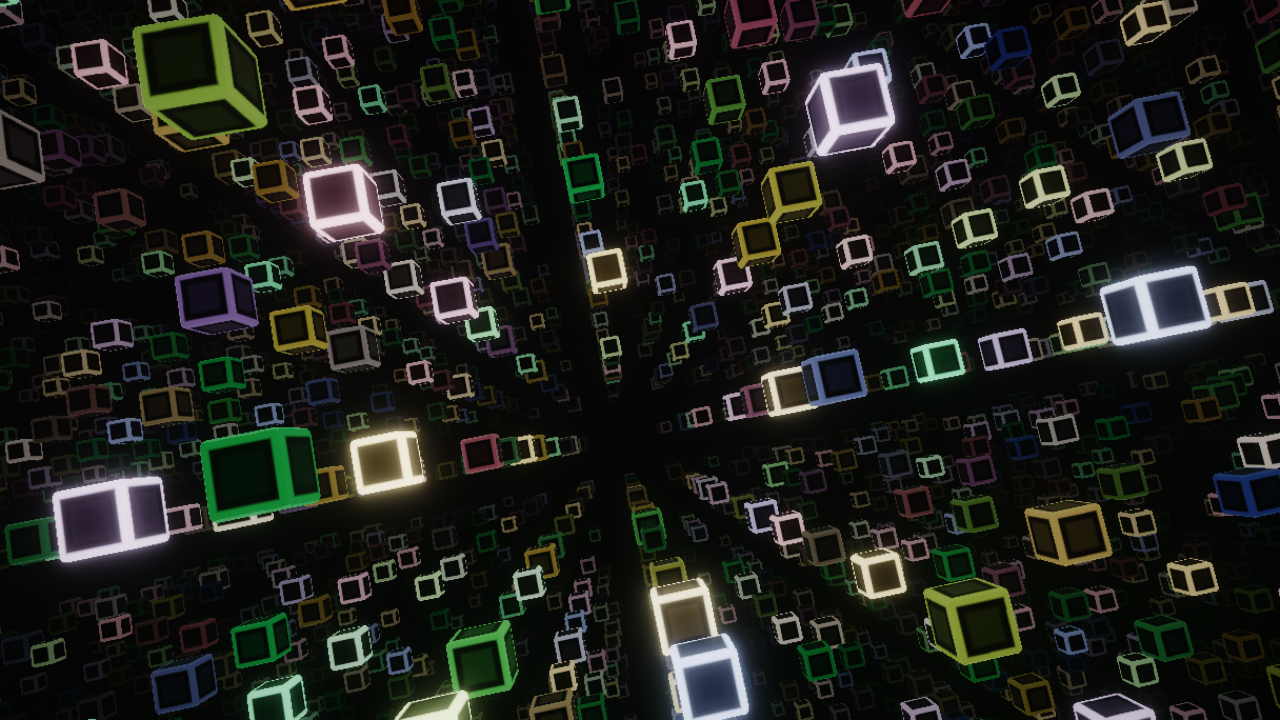
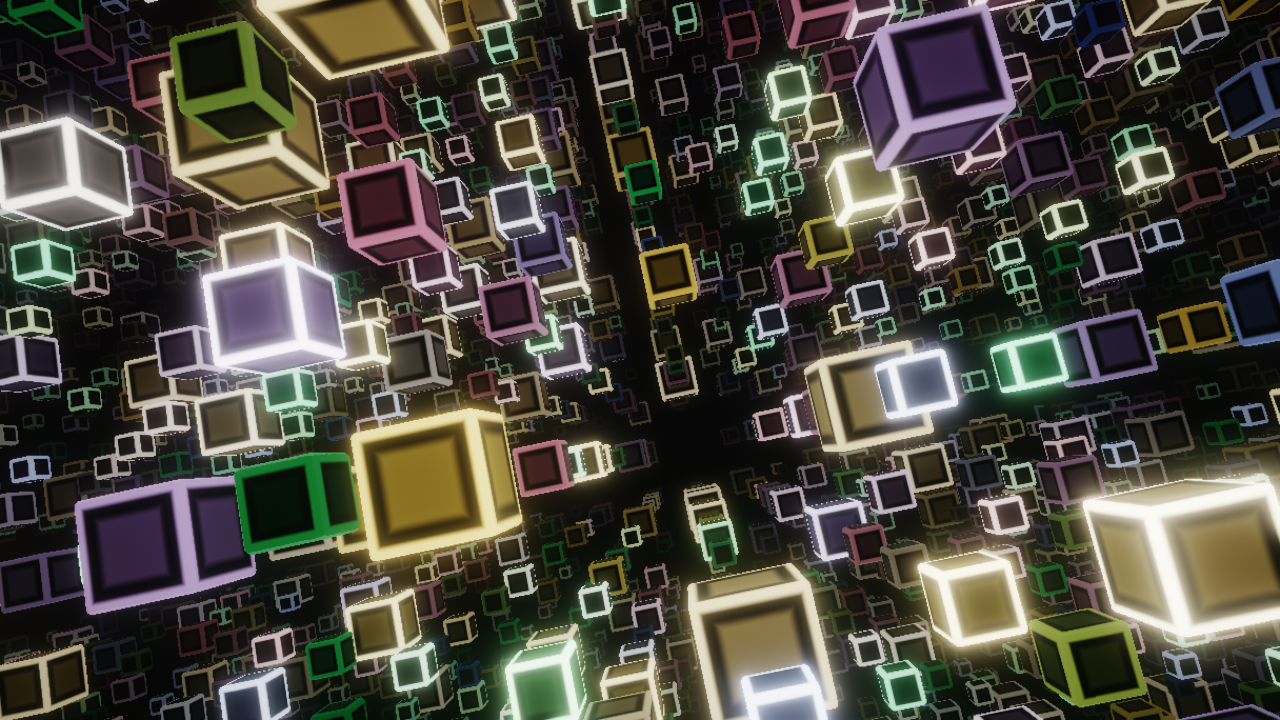
Add README with setup steps, refresh visualizer screenshots
README covers quick start, shortcuts, what bass/mids/treble/beats drive
in each visualizer, how to add one, per-OS system audio capture advice,
setup steps for Spotify, Apple Music and YouTube with their limits, how
everything was tested, and what could not be verified here.

Claude-Session: https://claude.ai/code/session_01QbNHKRFDGpGbRETGv1cwDG

diff --git a/README.md b/README.md
@@ -1,0 +1,256 @@
+# Phosphor
+
+A music player for the browser whose main attraction is its visualizers. Put music on, press <kbd>F</kbd>, and the interface fades away to leave twelve audio-reactive visualizers filling the screen.
+
+![Album Halo, with colours taken from the cover art](docs/screenshots/radial.png)
+
+- **Sources:** local files (MP3, FLAC, WAV, M4A/AAC, OGG/Opus and anything else Chrome or Edge decodes), whatever your computer is playing (system or tab audio capture), Spotify, Apple Music, and YouTube / YouTube Music.
+- **Visualizers:** six classic (spectrum bars, oscilloscope, feedback trails, tunnel, kaleidoscope, real MilkDrop presets) and six modern (GPU particles, two raymarched scenes, a 3D frequency terrain, a fluid simulation, and a radial spectrum around the album art). Bass, mids, treble and beats each drive something different in every one of them.
+- **Player:** queue, shuffle, repeat, seek, volume, keyboard shortcuts, media keys, drag and drop, folders, tags and cover art, a visualizer gallery, auto-cycling with crossfades.
+- **Stack:** Vite + TypeScript, raw WebGL2, Web Audio. No backend and no framework. Runs in Chrome or Edge.
+
+## Quick start
+
+```bash
+npm install
+```
+
+```bash
+npm run dev
+```
+
+Then open **http://127.0.0.1:5173** (use `127.0.0.1`, not `localhost`: Spotify only accepts that form of local address for sign-in, and `localhost` redirects there anyway). Drop some audio files on the window, or click **Play demo** for a built-in synthesised track.
+
+To build static files for hosting anywhere: `npm run build`, then serve `dist/`. If you host it somewhere other than `http://127.0.0.1:5173`, it must be served over **https** for Spotify sign-in, and the redirect URI in your Spotify app has to match the new address.
+
+Local files, system audio capture and YouTube links work without any setup. Spotify and Apple Music need credentials from you; see [Streaming services](#streaming-services).
+
+## Using it
+
+<table>
+<tr><td><img src="docs/screenshots/ui-playing.png" alt="Playing a local file"></td><td><img src="docs/screenshots/ui-gallery.png" alt="Visualizer gallery"></td></tr>
+<tr><td><img src="docs/screenshots/ui-queue.png" alt="Queue"></td><td><img src="docs/screenshots/ui-capture.png" alt="System audio capture, with advice for this OS"></td></tr>
+</table>
+
+| Key | Action |
+| --- | --- |
+| <kbd>Space</kbd> | Play / pause |
+| <kbd>←</kbd> <kbd>→</kbd> | Previous / next visualizer |
+| <kbd>Shift</kbd>+<kbd>←</kbd> <kbd>→</kbd> | Previous / next MilkDrop preset |
+| <kbd>1</kbd>…<kbd>0</kbd> | Jump to a visualizer |
+| <kbd>A</kbd> | Auto-cycle visualizers on / off |
+| <kbd>G</kbd> | Visualizer gallery |
+| <kbd>↑</kbd> <kbd>↓</kbd> | Volume |
+| <kbd>M</kbd> | Mute |
+| <kbd>N</kbd> / <kbd>P</kbd> | Next / previous track (previous restarts the track if you are more than 3 s in) |
+| <kbd>J</kbd> / <kbd>L</kbd> | Seek back / forward 10 seconds |
+| <kbd>S</kbd> / <kbd>R</kbd> | Shuffle / repeat (off, all, one) |
+| <kbd>Q</kbd> | Queue (click to play, drag to reorder) |
+| <kbd>O</kbd> | Add music |
+| <kbd>C</kbd> | Capture system or tab audio |
+| <kbd>F</kbd> | Fullscreen (or double-click the visuals) |
+| <kbd>,</kbd> / <kbd>?</kbd> | Settings / list of shortcuts |
+| <kbd>Esc</kbd> | Close whatever is open |
+
+Media keys, headset buttons and the OS "now playing" widget control playback too.
+
+In fullscreen the controls fade out a few seconds after the mouse stops (Settings can make that happen always, or never). They stay while the pointer is over them. Auto-cycle picks a new visualizer every 15 seconds to 5 minutes, shuffled or in order, crossfading between them; it pauses while nothing is playing. Quality defaults to **Auto**, which lowers the internal render resolution when frames start dropping and raises it again when there is headroom, so the frame rate holds on slower GPUs.
+
+Settings, the last visualizer, volume, shuffle and repeat are remembered in the browser.
+
+## Visualizers
+
+| | Visualizer | Bass | Mids | Treble | Beats |
+| --- | --- | --- | --- | --- | --- |
+| 1 | **Spectrum** – LED bars with gravity-driven peak caps and a floor reflection | left-hand bars, floor glow | middle bars | right-hand bars | bars and floor flare |
+| 2 | **Oscilloscope** – left and right waveforms as a beam on a phosphor tube | beam thickens | waveform shape | beam brightens on hits | beam and graticule flash |
+| 3 | **Feedback Trails** – waveform rings leave swirling, colour-cycling trails | outward zoom | swirl strength and spin | hue rotation speed, comets | zoom kick; every 8 beats the swirl reverses |
+| 4 | **Tunnel** – tiled demoscene tunnel; past sound flies toward you as lit tiles | glow at the far end | bend and roll | neon tubes fizz | walls lurch, steel ribs flash |
+| 5 | **Kaleidoscope** – mirrored stained glass, each shard tied to one frequency | zoom | spin and tumble | bevel glints, sparkles | flash; every 16 beats the mirror count changes |
+| 6 | **MilkDrop** – genuine MilkDrop presets via butterchurn, a curated set of 24 | per preset | per preset | per preset | preset changes on a beat every ~30 s |
+| 7 | **Particle Field** – ~190,000 GPU particles forming shapes | shape swells | flow-field turbulence, orbit speed | glitter flashes | explosion outward; every 16 beats a new shape |
+| 8 | **Pulse Orb** – raymarched liquid-metal sphere | swell and wobble | regions of skin bulge with their band | skin roughens, sparks | shockwave ring |
+| 9 | **Lattice Flight** – raymarched flight through a grid of cubes, one band each | flight speed | roll | edges spark | light wave races down the corridor |
+| 0 | **Frequency Terrain** – a landscape built from the last few seconds of spectrum | height, sun size, horizon glow | ridges | aurora, wire shimmer, stars | sun pulse, grid flash |
+| | **Fluid** – Navier–Stokes ink simulation | fountain from the bottom | jets from the sides | circling nozzles, finer swirls | ink bursts |
+| | **Album Halo** – cover art ringed by a radial spectrum and waveform halo | disc swells, rim light | spectrum bars | sparks | ripples leave the disc |
+
+The modern family (and Album Halo's disc) take their colours from the current track's artwork; the interface accent colour follows it too. With no artwork, Album Halo shows a spinning record instead.
+
+<table>
+<tr><td><img src="docs/screenshots/bars.png" alt="Spectrum"></td><td><img src="docs/screenshots/scope.png" alt="Oscilloscope"></td><td><img src="docs/screenshots/trails.png" alt="Feedback Trails"></td></tr>
+<tr><td><img src="docs/screenshots/tunnel.png" alt="Tunnel"></td><td><img src="docs/screenshots/kaleido.png" alt="Kaleidoscope"></td><td><img src="docs/screenshots/milkdrop.png" alt="MilkDrop"></td></tr>
+<tr><td><img src="docs/screenshots/particles.png" alt="Particle Field"></td><td><img src="docs/screenshots/orb.png" alt="Pulse Orb"></td><td><img src="docs/screenshots/lattice.png" alt="Lattice Flight"></td></tr>
+<tr><td><img src="docs/screenshots/terrain.png" alt="Frequency Terrain"></td><td><img src="docs/screenshots/fluid.png" alt="Fluid"></td><td><img src="docs/screenshots/radial.png" alt="Album Halo"></td></tr>
+</table>
+
+### Adding a visualizer
+
+Add one file to `src/viz/visualizers/`. It is registered automatically and appears in the gallery, the arrow-key rotation and auto-cycle.
+
+```ts
+import { COMMON_UNIFORMS, FS_HEADER } from '../../gl/glsl';
+import { drawFullscreen, FULLSCREEN_VS, Program } from '../../gl/util';
+import { bindOutput, commonUniforms, defineVisualizer } from '../types';
+
+const FS = /* glsl */ `${FS_HEADER}
+in vec2 vUv; out vec4 o;
+${COMMON_UNIFORMS}
+void main() {
+  float s = texture(uSpectrum, vec2(vUv.x, 0.5)).r;              // log-spaced spectrum, 0..1
+  float bar = step(vUv.y, s);
+  o = vec4(mix(uPal[0], uPal[1], vUv.y) * bar * (0.6 + uBeat) + uBass * 0.1, 1.0);
+}`;
+
+export default defineVisualizer({
+  id: 'hello',
+  name: 'Hello Bars',
+  family: 'classic',
+  order: 200,
+  description: 'The smallest possible example.',
+  create({ gl }) {
+    const program = new Program(gl, FULLSCREEN_VS, FS);
+    return {
+      resize() {},
+      render(frame) {
+        bindOutput(gl, frame);
+        program.use().set(commonUniforms(frame));
+        drawFullscreen(gl);
+      },
+      dispose() {
+        program.dispose();
+      },
+    };
+  },
+});
+```
+
+Every visualizer receives the same analysis each frame (`frame.audio` in TypeScript, uniforms and textures in GLSL):
+
+- `spectrum`: 128 log-spaced bands from 32 Hz to 16 kHz, 0..1, auto-gained with a treble tilt so quiet captures and loud masters both fill the range; also uploaded as the `uSpectrum` texture, plus a 256-row scrolling history texture (`uHistory`).
+- `waveform`, `waveL`, `waveR`: 1024 trigger-aligned samples, gain-normalised (`uWave`).
+- `bass`, `mid`, `treble`, `level`: smoothed band energies; `bassHit`, `midHit`, `trebleHit`: transient emphasis.
+- `beat` (true on the beat frame), `beatPulse` (1 decaying to 0), `beatCount`: adaptive spectral-flux beat detection gated on low-frequency energy.
+- `palette`: four colours from the current artwork (`uPal`), and the artwork itself (`uArtwork`).
+
+`src/gl` has the small WebGL2 toolkit the built-in ones use (programs with named uniforms, render targets, ping-pong buffers, bloom).
+
+## System audio
+
+This is the universal source: anything playing on your computer, or in another tab, can drive the visualizers. Open **Add music → System audio** (or press <kbd>C</kbd>) and the browser's share dialog appears. The captured sound is only analysed and never played back, so you won't hear it twice. Only the audio track is kept; the picture is discarded at once.
+
+What the share dialog can capture depends on your OS (the app shows the right advice for yours):
+
+| | One browser tab | Everything the computer plays |
+| --- | --- | --- |
+| **Windows** | Choose the tab, switch on *Also share tab audio* | Choose *Entire screen*, switch on *Also share system audio* |
+| **macOS** | Choose the tab, switch on *Also share tab audio* | *Entire screen* + *Also share system audio*, on macOS 14.2 or later with a recent Chrome or Edge (about version 141 on). On older versions use a loopback driver such as BlackHole with **Audio input device**. |
+| **Linux** | Choose the tab, switch on *Also share tab audio* | Not offered by Chrome. Use **Audio input device** and pick your sound server's "Monitor of …" source. |
+| **ChromeOS** | As Windows | As Windows |
+
+Sharing a single *window* never includes sound. **Audio input device** listens to any input (a loopback device, a monitor source, a mixer, or a microphone near the speakers) as an alternative.
+
+## Streaming services
+
+Spotify, Apple Music and YouTube all play through their **official** web players. None of them lets a web page read the audio: Spotify and Apple Music stream it with DRM, and YouTube plays inside its own cross-origin iframe. So the design is:
+
+1. The service's own player handles sign-in, playback, track info and artwork, driven by Phosphor's queue and controls.
+2. The visualizers listen to **this tab's audio**, shared once per session through the same capture as above. When a streaming track is playing and nothing is shared yet, a banner offers **Share this tab's audio**; in the dialog, pick the Phosphor tab itself (Chrome offers it first) with tab audio switched on.
+
+Because the audio is captured after the service has applied its volume, turning Phosphor's volume very low also gives the visuals less to work with, and muting silences them. To listen quietly, turn your system volume down instead. Local files don't have this limitation.
+
+All three go in one shared queue alongside local files, with the same shortcuts and media keys. Credentials are pasted into **Settings** and stored only in this browser's localStorage; they are sent nowhere except to the service they belong to.
+
+### Spotify
+
+Needs: a **Spotify Premium** account (Spotify does not allow browser playback for free accounts, and since February 2026 the app owner must have Premium for a development-mode app to work at all).
+
+1. Go to the [Spotify developer dashboard](https://developer.spotify.com/dashboard), sign in, and click **Create app**.
+2. Give it any name and description. Under **Redirect URIs** add exactly `http://127.0.0.1:5173/` (the trailing slash matters; `localhost` is rejected by Spotify). After saving, check the dashboard didn't rewrite it.
+3. Under *Which API/SDKs are you planning to use?* tick **Web API** and **Web Playback SDK**. Save.
+4. Open the app's **Settings** and copy the **Client ID**. You don't need the client secret: Phosphor uses the PKCE flow, which is designed for apps without a backend.
+5. In Phosphor: **Settings → Spotify → Client ID**, paste it. Then **Add music → Spotify → Connect Spotify** and approve in the popup.
+6. Optional: to let other people use your copy, add them under **User Management** in the dashboard (development mode allows five).
+
+Then search, open your playlists and Liked Songs, or paste `open.spotify.com` / `spotify:` links for tracks, albums and playlists.
+
+Limits: search returns at most 10 results per type (Spotify's cap for development-mode apps). Sign-in lasts until you disconnect; tokens refresh automatically.
+
+### Apple Music
+
+Needs: a paid **Apple Developer Program** membership (to create a MusicKit key), and an **Apple Music subscription** for full tracks (without one, Apple plays 30-second previews).
+
+1. In [Certificates, Identifiers & Profiles](https://developer.apple.com/account/resources/identifiers/list), click **+**, choose **Media IDs**, give it a description (people see this when signing in) and a reverse-domain identifier such as `media.com.yourname.phosphor`, tick **MusicKit**, and register it.
+2. Go to **Keys**, click **+**, name the key, tick **Media Services (MusicKit, ShazamKit)**, click **Configure** and pick the Media ID from step 1. Continue and register.
+3. **Download** the `AuthKey_XXXXXXXXXX.p8` file (Apple only lets you download it once) and note the **Key ID**. Your **Team ID** is under *Membership details* on your account page. Keep the `.p8` file private; it is git-ignored here.
+4. Generate a developer token (valid up to six months):
+
+   ```bash
+   npm run apple-token -- --team-id ABCDE12345 --key-id 1A2B3C4D5E --key ./AuthKey_1A2B3C4D5E.p8
+   ```
+
+   Add `--origin http://127.0.0.1:5173` to lock the token to your copy of the app.
+5. In Phosphor: **Settings → Apple Music**, paste the token. Then **Add music → Apple Music → Connect Apple Music** and sign in with your Apple ID in Apple's window.
+
+Then search the catalog, open your library playlists, or paste `music.apple.com` song, album and playlist links. When the token expires, generate a new one and reload the page. If sign-in fails with an authorization error, check that the Team ID and Key ID match the key you downloaded.
+
+### YouTube and YouTube Music
+
+Needs: nothing for links. Paste any `youtube.com`, `youtu.be`, `shorts` or `music.youtube.com` video or playlist link in **Add music → YouTube**. For a YouTube Music album, use **Share** on the album page: it gives a playlist link, which works.
+
+Optional, for search and named playlist tracks: a **YouTube Data API key**.
+
+1. In the [Google Cloud console](https://console.cloud.google.com/), create a project.
+2. **APIs & Services → Library**, find **YouTube Data API v3**, and **Enable** it.
+3. **APIs & Services → Credentials → Create credentials → API key**.
+4. Edit the key: under *API restrictions* choose **Restrict key → YouTube Data API v3**; under *Application restrictions* choose **Websites** and add `http://127.0.0.1:5173/*` (and your hosted address, if any).
+5. In Phosphor: **Settings → YouTube → Data API key**, paste it.
+
+Limits:
+
+- There is no sign-in. YouTube has no official API for a YouTube Music library, likes or history, so those can't be browsed; public and unlisted playlists work by link.
+- Each search costs about 200 of the key's 10,000 free daily quota units, so roughly 50 searches a day. Playing links costs at most a few units.
+- Some videos (often official label music videos) are blocked by their owners from playing outside YouTube. They are skipped with a message.
+- YouTube's terms require the player to remain visible while it plays, so a small video frame stays in the bottom-left corner, even in fullscreen.
+
+## How it was tested
+
+`scripts/verify.cjs` drives a real Chromium with real audio playing, using a test track synthesised by `scripts/make-test-audio.mjs` (the same original composition the app ships as its demo) and encoded to MP3, FLAC, OGG, WAV and M4A with tags and cover art.
+
+```bash
+npm run test-audio
+```
+
+```bash
+npm run dev
+```
+
+```bash
+xvfb-run -a npm run verify
+```
+
+(`xvfb-run` is only needed on a machine without a display. The script needs [Playwright](https://playwright.dev) with Chromium and ffmpeg on the PATH.)
+
+It checks:
+
+- **Visualizers:** each one renders and animates with the track playing, and gets a screenshot (`docs/screenshots`, also used for the gallery thumbnails).
+- **Reaction:** deterministic A/B renders of every visualizer, with silence versus an isolated kick drum, a midrange chord and a hi-hat, and with beat detection withheld versus not. Each must change its image for bass, mids, treble and beats separately. The analysis layer is checked first, to show each stimulus lands only in its own band.
+- **Player and interface:** tags and art from each format, decoding each format, every keyboard shortcut, crossfades, the gallery, auto-cycle, queue editing, drag and drop, folders with cover images, an undecodable file, the idle fade, fullscreen, the demo track, settings persistence.
+- **Capture:** real `getDisplayMedia` capture of another tab and of the app's own tab, including that the captured audio has no path to the speakers.
+- **Spotify, Apple Music, YouTube:** each against a local simulation of the service (in `scripts/mocks`) that follows the documented behaviour: OAuth with real PKCE verification, the Web API's 2026 response shapes, the playback SDK's events, MusicKit's queue and events, the IFrame API's states and errors, the Data API with quotas and pagination. These prove Phosphor's side of each integration. They cannot prove the real services behave as documented; see below.
+
+## Status
+
+**Working and verified in a real browser with audio:** local files (all formats listed, tags, embedded and folder cover art, drag and drop, folders), the queue and every control and shortcut, media keys, fullscreen with idle fade, all twelve visualizers with crossfades, gallery and auto-cycle, system and tab audio capture.
+
+**Needs your credentials before it can be tested against the real service:**
+
+- Spotify (Client ID + Premium)
+- Apple Music (developer token from a paid developer account + subscription)
+- YouTube links work without anything, but could not be tried against real YouTube from the build environment; search additionally needs an API key.
+
+**Not verifiable here, and worth knowing:**
+
+- The build environment had no network access to Spotify, Apple or YouTube and no GPU (rendering used a software rasteriser), so the integrations were tested against simulations, and frame rates here say nothing about real hardware. I expect a typical laptop GPU to hold 60 fps at 1080p, but I could not measure that. The heaviest visualizers are the raymarched Pulse Orb and Lattice Flight and the Particle Field; Auto quality lowers the internal resolution when frames drop (verified to work, under software rendering), and **Settings → Quality → Low** goes further. Turn on **Settings → Show frame rate** to see what yours does.
+- Whole-system audio on macOS depends on your macOS and Chrome versions (see the table above); tab audio works everywhere.
+- M4A/AAC playback relies on Chrome's or Edge's AAC decoder (plain Chromium builds lack it).
